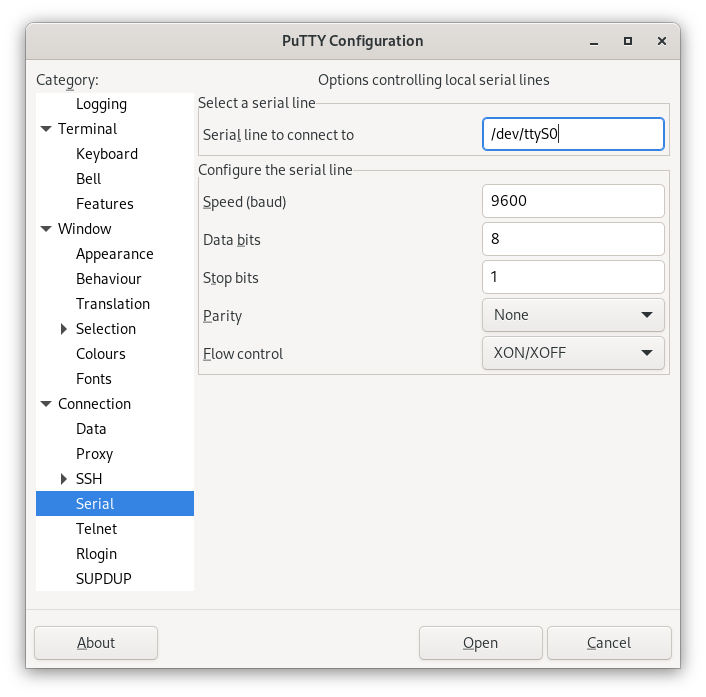
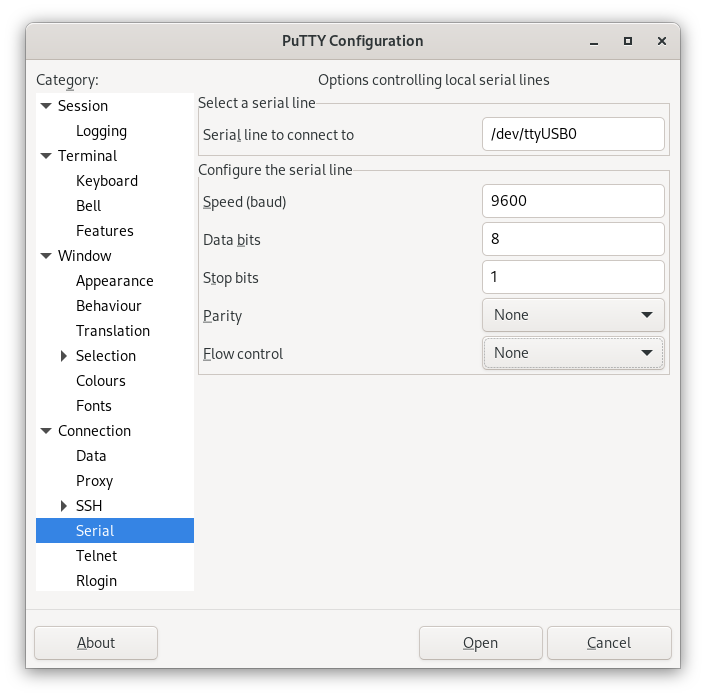
LoRa documentation

diff --git a/Portfolio/SSR_Portfolio/Pages/LoRa/Back-End.md b/Portfolio/SSR_Portfolio/Pages/LoRa/Back-End.md
@@ -1,45 +1,165 @@
 The server side will provide a place where the data can be stored and then be viewed via graph. For this project docker will be used to set up a:
 - MongoDB server:              For data storage.
 - Node-Red environment:   To receive the data, save it to the DB and graph it.
-
-# Docker
+# Installations
+## Docker
 Using docker we can easily create a separate instance of our back-end on new devices.
 To [install docker on Linux](https://docs.docker.com/desktop/install/linux/debian/), take the following steps:
 - Install Gnome:
-```
+``` bash
 sudo apt install gnome-terminal
 ```
 - Install Docker:
-```
+``` bash
 sudo apt-get update
 sudo apt-get install ./docker-desktop-amd64.deb
 ```
 - Check installation:
-```
+``` bash
 sudo docker --version
 ```
 We will make a Docker compose file to easily reproduce our system.
-# MongoDB
+## Base container installations
+### MongoDB
 The MongoDB instance will be used to store the received data, in case we want to view it on a later date.
 The settings of our MongoDB container will be based on the following commands.
-```
+``` bash
 sudo docker pull mongodb/mongodb-community-server:latest
 ```
-```
+``` bash
 sudo docker run --name mongodb -p 27017:27017 -d mongodb/mongodb-community-server:latest
 ```
-# Node-Red
+The MongoDB terminal can be installed to check the data.
+``` bash
+sudo apt-get install gnupg curl
+```
+``` bash
+curl -fsSL https://www.mongodb.org/static/pgp/server-8.0.asc | \
+   sudo gpg -o /usr/share/keyrings/mongodb-server-8.0.gpg \
+   --dearmor
+```
+``` bash
+echo "deb [ signed-by=/usr/share/keyrings/mongodb-server-8.0.gpg ] http://repo.mongodb.org/apt/debian bookworm/mongodb-org/8.0 main" | sudo tee /etc/apt/sources.list.d/mongodb-org-8.0.list
+```
+``` bash
+sudo apt-get update
+```
+### Node-Red
 Node-Red is a simple tool, with which we can quickly set up:
 - A MQTT receiver
 - Dashboard
 The settings of our Node-Red container will be based on the following commands.
-```
+``` bash
 sudo docker pull nodered/node-red:latest
 ```
-```
+``` bash
 sudo docker run -it -p 1880:1880 -v node_red_data:/data --name SSR-server nodered/node-red
 ```
-# Docker Compose
+## Docker compose
+Using the following Docker compose file we can create both a MongoDB and Node-Red container that are capable of interacting with each other.
+``` yaml
+version: '1.0'
 
-[dashboard](https://flows.nodered.org/node/node-red-dashboard)
-[MongoDB](https://flows.nodered.org/node/node-red-contrib-mongodb4)
+services:
+  node-red:
+    image: nodered/node-red				# Node-RED Docker image
+    container_name: SSR-server				# Set the container name
+    restart: always
+    ports:
+      - "1880:1880"					# Expose port 1880 for Node-RED
+    volumes:
+      - node_red_data:/data				# Persist data in a Docker volume
+    networks:
+      - app-network					# Attach to custom network
+    environment:
+      - MONGO_URL=mongodb://mongodb:27017		# MongoDB connection URL (use service name as host)
+    entrypoint:
+      - /bin/sh						# Use shell to execute commands
+      - -c
+      - |
+        npm stop;					# Stop Node-RED
+        npm install node-red-dashboard;			# Install dashboard nodes
+        npm install node-red-contrib-mongodb4;		# Install MongoDB nodes
+        npm start;                             		# Retart Node-RED
+    # Enter the container with the following command:	sudo docker exec -it <container_id> bash
+
+  mongodb:
+    image: mongodb/mongodb-community-server:latest	# MongoDB Docker image
+    container_name: SSR-DB				# Set container name for MongoDB
+    restart: always
+    ports:
+      - "27017:27017"					# Expose MongoDB port
+    volumes:
+      - mongo_data:/data/db				# Persist MongoDB data in a Docker volume
+    networks:
+      - app-network					# Attach to custom network
+    # environment:
+      # MONGO_INITDB_ROOT_USERNAME: root
+      # MONGO_INITDB_ROOT_PASSWORD: root
+
+volumes:
+  node_red_data:					# Volume for Node-RED data
+  mongo_data:						# Volume for MongoDB data
+
+networks:
+  app-network:						# Define network for communication between containers
+```
+*Note that we will automatically install **the node-red-dashboard** & **node-red-contrib-mongodb4 packages**.*
+
+# Back-end setup
+## LoRa connectivity
+### MQTT node
+Get a "mqtt in" node and put it in the flow, then click on it. A window should slide open. Click on the plus button next to the "server" to setup a connection to TheThingsNetwork.
+![MQTT server creation](/SSR_Portfolio/Images/LoRa/mqtt_server_creation.png)
+Setup server connection.
+![MQTT server connetion settings](/SSR_Portfolio/Images/LoRa/mqtt_server_connection_settings.png)
+Setup server connection security.
+![MQTT server security settings](/SSR_Portfolio/Images/LoRa/mqtt_.png)
+Subscribe to a certain topic. *For testing porpusus we can use '#' as a any-topic*
+![MQTT settings](/SSR_Portfolio/Images/LoRa/mqtt_settings.png)
+### Function node
+Get a "function" node and put it in the flow, then click on it. A window should slide open.
+In the "OnMessage" tab drop the following code:
+``` js
+msg.payload = msg.payload.uplink_message.decoded_payload.bytes
+//at+msg="hello world"
+return msg;
+```
+### Debug node
+Add last drop a "debug" node and put it in the flow, and connect:
+1) The MQTT output to the function input.
+2) The function output to the debug intput.
+![MQTT debug flow](/SSR_Portfolio/Images/LoRa/mqtt_debug_flow.png)
+## Container connectivity
+Add the following nodes to the flow:
+- An **inject** node
+- 2 **function** nodes
+- A **[mongodb4](https://flows.nodered.org/node/node-red-contrib-mongodb4)**  node
+- A **debug** node
+Then connect them as follows:
+![MongoDB flow](/SSR_Portfolio/Images/LoRa/mongodb_flow.png)
+### Function nodes
+Click on the "function" node. A window should slide open.
+First let's make a find all function using the following code:
+``` js
+msg = {};
+return msg;
+```
+Then let's make a find by ID function using the following code:
+``` js
+msg.payload = {hostname: "73e5846ccdd6"};
+// 73e5846ccdd6 is example id found via the "Find all" node
+return msg;
+```
+### MongoDB node
+Click on the "mongodb4" node. A window should slide open.
+Create a new connection:
+![MongoDB create connection](/SSR_Portfolio/Images/LoRa/mongodb_connection_creation.png)
+Set the simple URI settings:
+![MongoDB simple URI settings](/SSR_Portfolio/Images/LoRa/mongodb_simple_uri_settings.png)
+Set the advanced URI settings:
+![MongoDB advanced URI settings](/SSR_Portfolio/Images/LoRa/mongodb_advanced_uri_settings.png)
+Set the global settings:
+![MongoDB global settings](/SSR_Portfolio/Images/LoRa/mongodb_settings.png)
+## Dashboard
+[dashboard nodes](https://flows.nodered.org/node/node-red-dashboard)

diff --git a/Portfolio/SSR_Portfolio/Pages/LoRa/TheThingsNetwork.md b/Portfolio/SSR_Portfolio/Pages/LoRa/TheThingsNetwork.md
@@ -1,14 +1,61 @@
-Go to [TheThingsNetwork website](https://www.thethingsnetwork.org/) and click the Sign Up button.
+# Account creation
+Go to [TheThingsNetwork website](https://www.thethingsnetwork.org/) and click the Sign Up button:
 ![[TheThingsNetwork sign up](SSR_Portfolio/Images/LoRa/ttn_sign_up_1.png)
 
-Scroll down and click the *"Join the things network"* button.
+Scroll down and click the *"Join the things network"* button:
 ![[TheThingsNetwork join](SSR_Portfolio/Images/LoRa/ttn_join.png)
 
-Click the *"Sign in for free"*.
+Click the *"Sign in for free"*:
 ![[TheThingsNetwork sign up](SSR_Portfolio/Images/LoRa/ttn_sign_up_2.png)
 
-Create and account.
+Create and account:
 ![[TheThingsNetwork create account](SSR_Portfolio/Images/LoRa/ttn_create_account.png)
 
-After creating and verifying your account, log in.
+After creating and verifying your account, log in:
 ![[TheThingsNetwork login](SSR_Portfolio/Images/LoRa/ttn_login.png)
+# Open the console
+Click on the console button:
+![[TheThingsNetwork console](SSR_Portfolio/Images/LoRa/ttn_console.png)
+
+Select the closest cluster available *(Ireland)*:
+![[TheThingsNetwork cluster](SSR_Portfolio/Images/LoRa/ttn_cluster.png)
+
+You should see the following interface:
+![[TheThingsNetwork console interface](SSR_Portfolio/Images/LoRa/ttn_console_interface.png)
+# Connect device
+## Create an application
+Hover over the plus sign and click on ""Add application":
+![TheThingsNetwork create application](SSR_Portfolio/Images/LoRa/ttn_create_application.png)
+
+Use the following settings to create an application:
+![TheThingsNetwork application settings](SSR_Portfolio/Images/LoRa/ttn_application_settings.png)
+## Add a device
+Under the "End devices" tab, click op the "Register end device" knop:
+![TheThingsNetwork register device](SSR_Portfolio/Images/LoRa/ttn_register_device.png)
+
+Use the following settings to register an end device:
+- JoinEUI should be provided by the device. Use the device value.
+- DevEUI and AppKey should be generated and then configured onto the end device.
+![TheThingsNetwork create application](SSR_Portfolio/Images/LoRa/ttn_device_settings.png)
+### Edit the payload formatter
+When in the configuration of a certain end device, click on the "Payload formatters" tab and select the "Custom Javascript formatter" option:
+![TheThingsNetwork device formatter](SSR_Portfolio/Images/LoRa/ttn_device_formatter.png)
+
+Then add the following code:
+``` js
+function decodeUplink(input) {
+  return {
+    data: {
+      bytes: String.fromCharCode.apply(null, input.bytes)
+    },
+    warnings: [],
+    errors: []
+  };
+}
+```
+
+### Create a MQTT network connection
+Click on the left, onto the "Intigrations" tab and afterwards on the "MQTT" sub-tab.
+The following settings can be used to subscribe onto MQTT messages of this end device.
+*Note that the password needs to be generated.*
+![TheThingsNetwork MQTT network settings](SSR_Portfolio/Images/LoRa/ttn_mqtt_network_settings.png)

diff --git a/Portfolio/SSR_Portfolio/Pages/LoRa/UART communications.md b/Portfolio/SSR_Portfolio/Pages/LoRa/UART communications.md
@@ -5,15 +5,15 @@ UART communication is needed for the LoRa module, since it uses AT commands. To 
 # Putty for Linux *(Debian)*
 Use the following commands to install Putty on a Debian distribution.
 - Update system
-```
+``` bash
 sudo apt update && sudo apt upgrade
 ```
 - Install Putty
-```
+``` bash
 sudo apt install putty putty-tools
 ```
 - Verify installation
-```
+``` bash
 putty --version
 ```
 # UART settings
@@ -26,7 +26,49 @@ Open the serial monitor application and use the following settings:
 ![UART Settings](/SSR_Portfolio/Images/LoRa/putty_uart_settings.png)
 # Test connection
 To test the connection, we just need to use the base AT command.
-```
-AT+
+``` Serial
+AT
 ```
 ![connection_test_output]()
+# Helpful commands
+Enter the test mode
+``` Serial
+AT+mode="LWABP"
+```
+
+Select a channel
+``` Serial
+AT+ch=num,0
+```
+
+Show device ids
+``` Serial
+AT+id
+```
+
+Set device address
+``` Serial
+AT+id=devaddres,"*address*"
+```
+
+Set device secret keys
+``` Serial
+AT+id=appskey,"*AppSKey*"
+AT+id=nwkskey,"*NwkSKey*"
+```
+
+Set device identifier
+``` Serial
+AT+id=deveui,"*DevEUI*"
+AT+id=appeui,"*DevEUI*"
+```
+
+Set device data rate
+``` Serial
+AT+ch=dr,7
+```
+
+Sent a message
+``` Serial
+AT+msg="*message*"
+```

diff --git a/Portfolio/SSR_Portfolio/Portfolio.md b/Portfolio/SSR_Portfolio/Portfolio.md
@@ -137,10 +137,12 @@ For the LoRa-Module, we utilize the Wio-e5 mini board.
 ![[lora_e5_mini_pinout.jpg]]
 *[Wio-e5 mini pinout](https://wiki.seeedstudio.com/LoRa_E5_mini/)*
 
-For our communication to work we first need to perform three tasks:
+For our communication to work we need to perform three tasks:
 - Install a serial console for [UART communications](SSR_Portfolio/Pages/LoRa/UART%20Communications).
-- Create a [TheThingsNetwork account](SSR_Portfolio/Pages/LoRa/TheThingsNetwork).
+- Set up [TheThingsNetwork](SSR_Portfolio/Pages/LoRa/TheThingsNetwork).
 - Create a [back-end](SSR_Portfolio/Pages/LoRa/Back-End) that collects the data and visualizes it.
+
+*Some handy videos include: [setup device](https://www.youtube.com/watch?v=L_acKpwNvnc&list=WL&index=11&t=600s) & [setup MQTT](https://www.youtube.com/watch?v=9H6GFXatOCY&list=WL&index=12&t=128s)*
 
 ==Tom==
 
